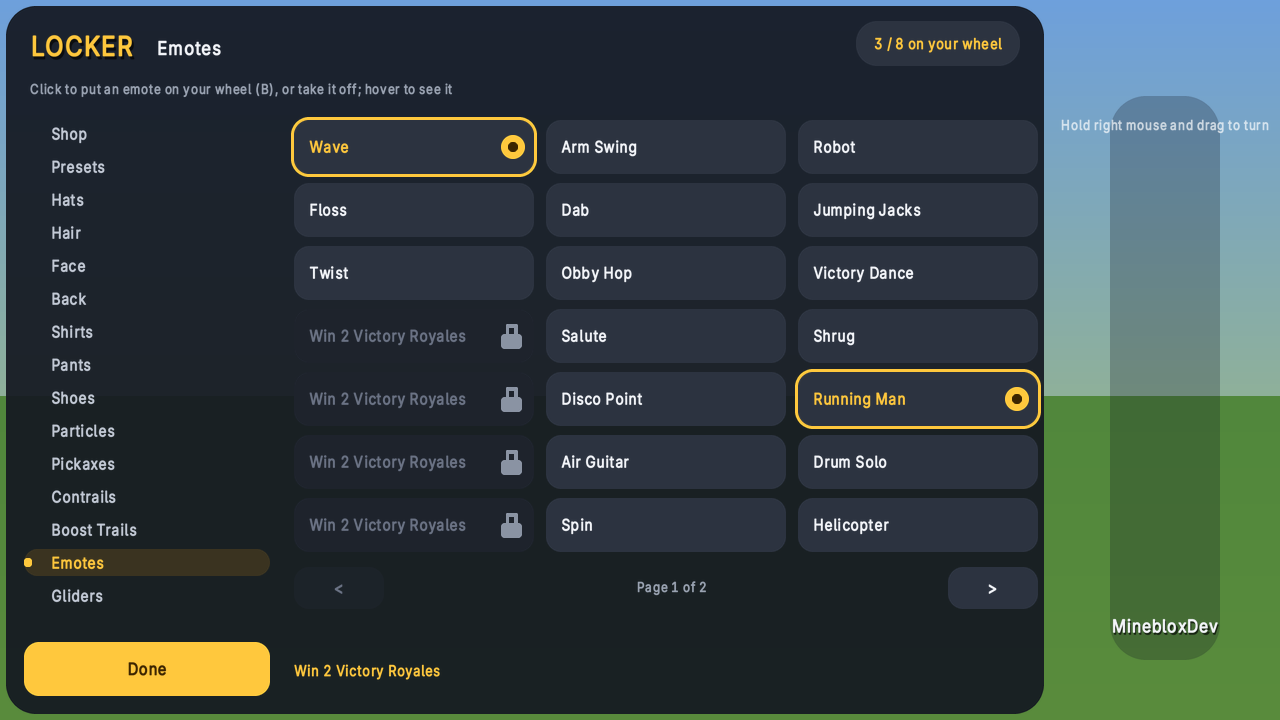
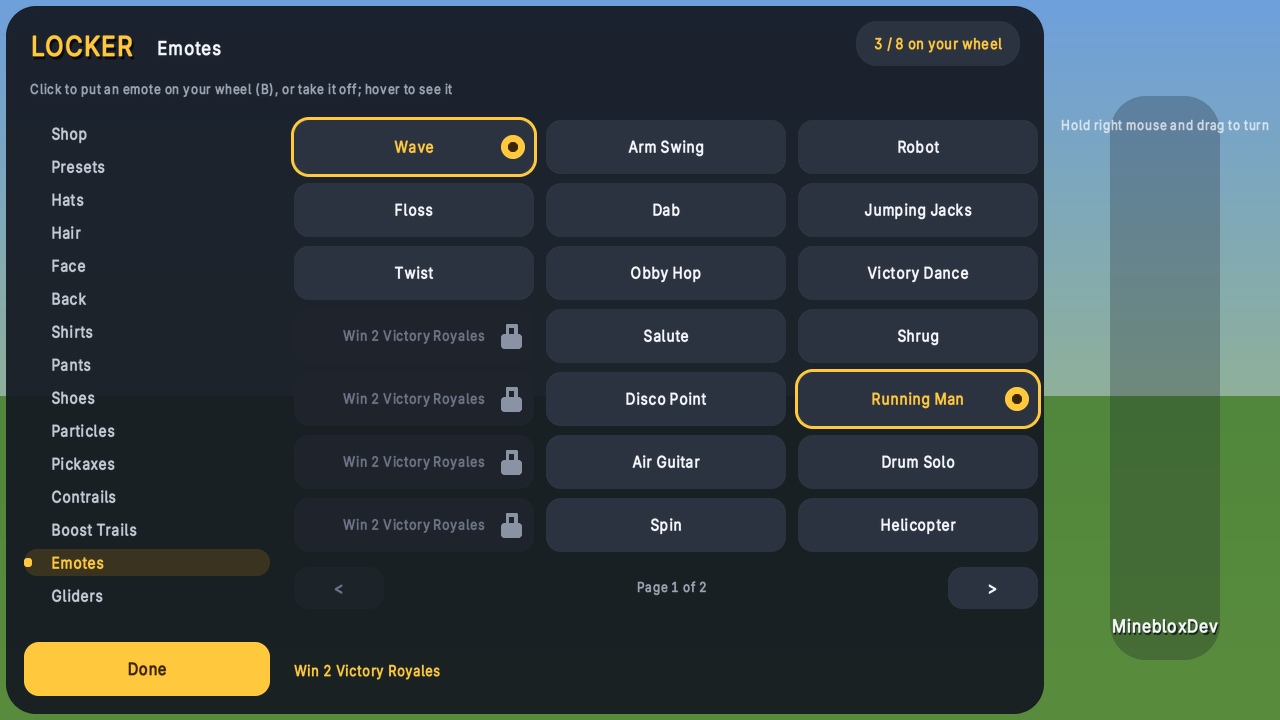
2.0.0-test6.1: every Locker item's name centred in its tile; player-view mockups of prices and unlocks

diff --git a/fabric/src/client/java/gg/minebloxroyale/client/SmoothButton.java b/fabric/src/client/java/gg/minebloxroyale/client/SmoothButton.java
@@ -82,9 +82,13 @@ public class SmoothButton extends Button {
 					Smooth.text(g, "owned", x + w - 4 * s, y + (h - 5.5F * s) / 2 - 0.5F, 5.5F * s, MUTED, Smooth.RIGHT, false);
 					right = w - Smooth.width("owned", 5.5F * s) - 8 * s;
 				}
+				// (centred, 2.0.0-test6.1: in the whole tile, as much room kept on its left as the dot or lock takes on its right;
+				// beside a price or "owned", in the room left of it)
+				boolean tag = price != null || owned;
+				float room = center ? (tag ? right - 5 * s : w - 2 * (w - right)) : right - 4 * s, mid = tag ? x + (5 * s + right) / 2 : x + w / 2;
 				float size = 7.5F * s;
-				while (size > 4.5F && Smooth.width(label, size) > (center ? w - 12 * s : right - 4 * s)) size -= 0.25F;
-				if (center) Smooth.text(g, label, x + w / 2, y + (h - size) / 2 - 0.5F, size, locked ? DIM : on ? GOLD : WHITE, Smooth.CENTER, false);
+				while (size > 4.5F && Smooth.width(label, size) > room) size -= 0.25F;
+				if (center) Smooth.text(g, label, mid, y + (h - size) / 2 - 0.5F, size, locked ? DIM : on ? GOLD : WHITE, Smooth.CENTER, false);
 				else Smooth.text(g, label, x + 5 * s, y + (h - size) / 2 - 0.5F, size, locked ? DIM : on ? GOLD : WHITE, Smooth.LEFT, false);
 			}
 		}

diff --git a/fabric/src/client/java/gg/minebloxroyale/client/LockerScreen.java b/fabric/src/client/java/gg/minebloxroyale/client/LockerScreen.java
@@ -322,6 +322,7 @@ public class LockerScreen extends Screen {
 			}
 			SmoothButton b = new SmoothButton(tx, ty, tileW, tileH, label, SmoothButton.Look.TILE, btn -> t.click().run());
 			b.scale = k;
+			b.center = true; // (every item's name in the middle of its tile: 2.0.0-test6.1, creator)
 			b.on = on;
 			b.owned = owned;
 			b.price = price;
